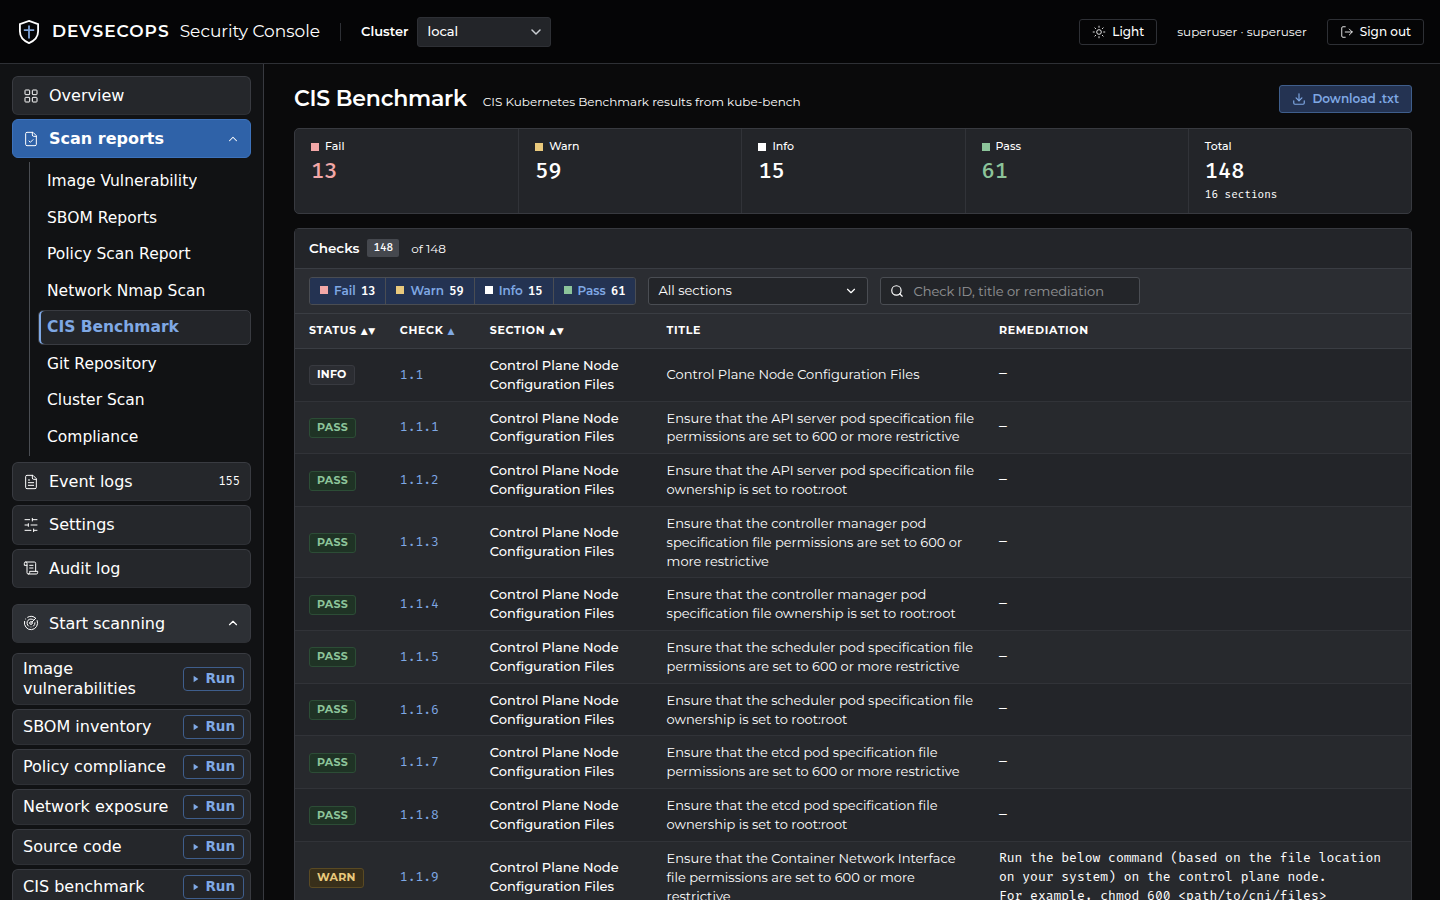
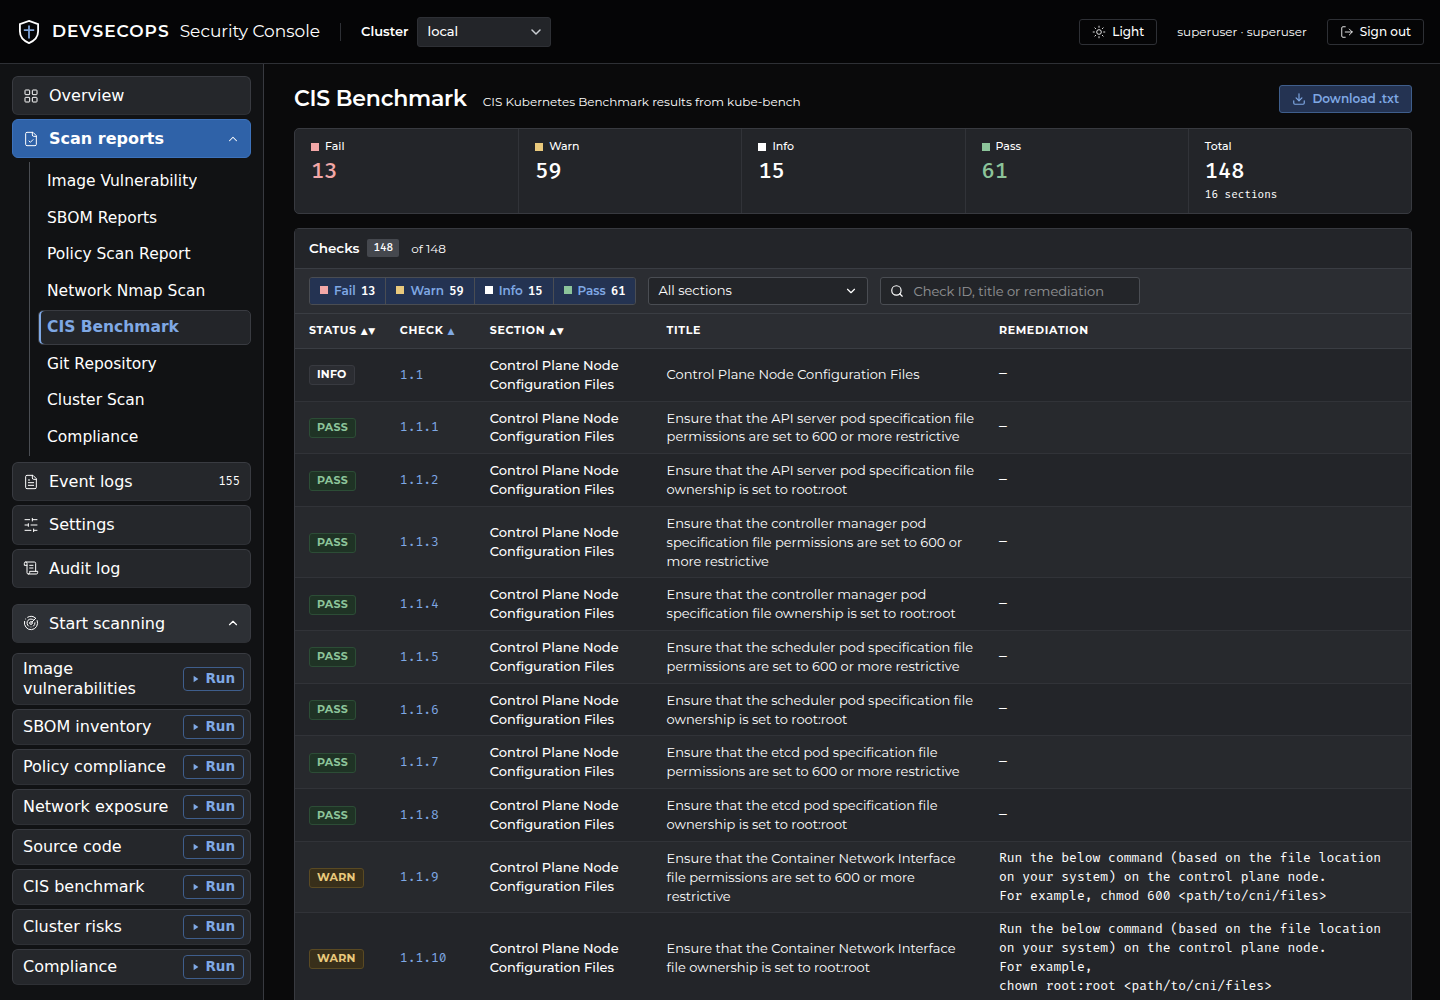
docs: add screenshots for every report page

diff --git a/README.md b/README.md
@@ -18,12 +18,36 @@ A web dashboard that runs security scans against Kubernetes clusters, container 
 
 ## Screenshots
 
-| | |
-|---|---|
-| ![Image vulnerabilities](docs/screenshots/image-vulnerabilities.png) | ![CIS benchmark](docs/screenshots/cis-benchmark.png) |
-| Image vulnerabilities (Trivy) | CIS benchmark (kube-bench) |
-| ![Compliance](docs/screenshots/compliance.png) | ![Event logs](docs/screenshots/events.png) |
-| Compliance (NSA / Pod Security Standards) | Event logs |
+### Scan reports
+
+Each scanner has its own report view under **Scan reports**.
+
+#### Image vulnerabilities (Trivy)
+![Image vulnerabilities](docs/screenshots/image-vulnerabilities.png)
+
+#### SBOM reports
+![SBOM reports](docs/screenshots/sbom.png)
+
+#### Policy scan report (Kyverno)
+![Policy scan report](docs/screenshots/policy-scan.png)
+
+#### Network scan (Nmap)
+![Network Nmap scan](docs/screenshots/nmap.png)
+
+#### CIS benchmark (kube-bench)
+![CIS benchmark](docs/screenshots/cis-benchmark.png)
+
+#### Git repository (Trivy)
+![Git repository](docs/screenshots/git-repository.png)
+
+#### Cluster scan (Trivy)
+![Cluster scan](docs/screenshots/cluster-scan.png)
+
+#### Compliance (NSA / Pod Security Standards)
+![Compliance](docs/screenshots/compliance.png)
+
+### Event logs
+![Event logs](docs/screenshots/events.png)
 
 ## Quick start
 
